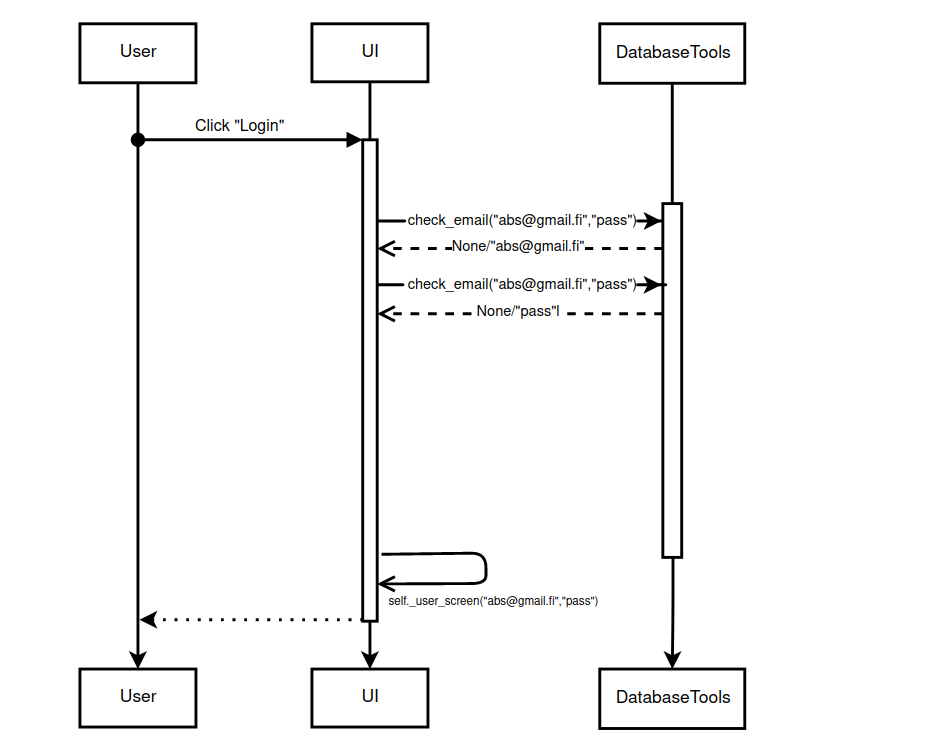
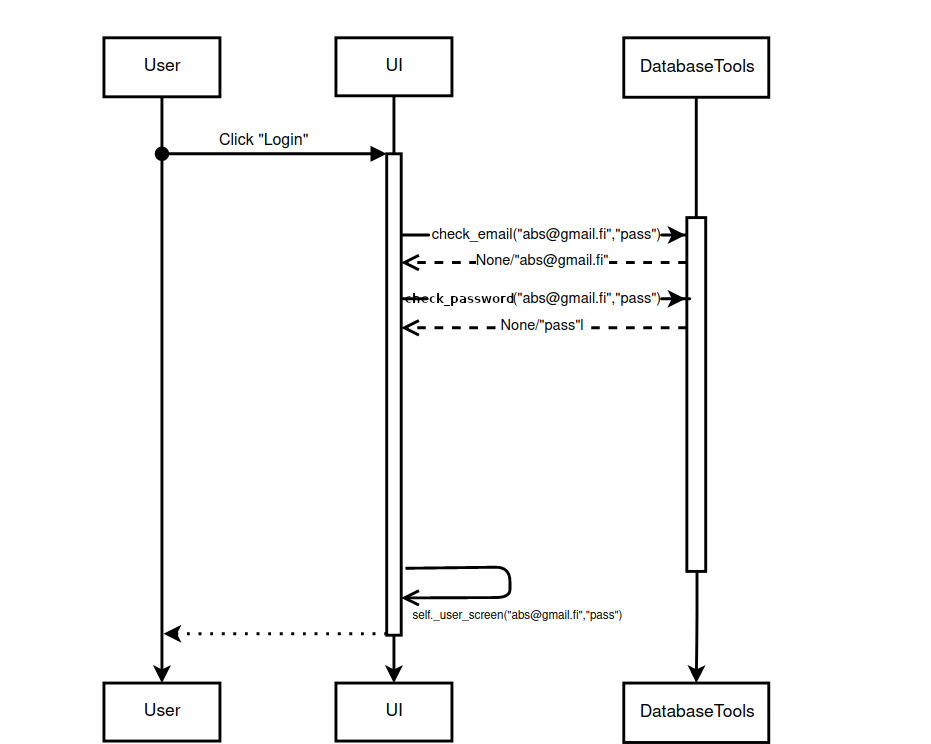
Arkitehtuuri.md päivitetty

Changed region(s): [[0.0623, 0.0309, 0.841, 1.0]]

diff --git a/dokumentaatio/arkkitehtuuri.md b/dokumentaatio/arkkitehtuuri.md
@@ -7,11 +7,15 @@ Ohjelmakoodin pakkausrakenne on seuraavan kaavion mukainen:
 <img src="https://github.com/Neroniuoso/ot-harjoitustyo/blob/master/dokumentaatio/kuvat/Pakkauskaavio.png" width=760>
 
 Sovelluksen rakenne koostuu käyttöliittymäkerroksesta, sovelluslogiikkakerroksesta  ja tallennuslogiikasta vastaavasta kerroksesta.
-ui-hakemistossa on sovelluksen käyttöliittymästä ja services-hakemistossa sovelluslogiikasta vastaava koodi. repositories-hakemisto sisältää tallentamisesta huolehtivaa koodia. Hakemistossa entities sisältää toisaalta luokkia, jotka kuvaavat oikean maailman olioita. Tässä tapauksessa käyttäjä-oliota.
+ui-hakemistossa on sovelluksen käyttöliittymästä ja services-hakemistossa sovelluslogiikasta vastaava koodi. repositories-hakemisto sisältää tallentamisesta huolehtivaa koodia. 
 
 ## Käyttöliittymä
 
-Ei vielä päivitetty
+Käyttöliittymällä on useita erillisiä näkymiä.
+Sovelluksen käynnistäminen johtaa kirjautumisnäkymään. Tästä voidaan kirjautumalla siirtyä käyttäjänäkymään, josta edelleen päästään joko laskuri- tai track-näkymään. Toisaalta painamalla "Create User" siirrytään uuden käyttäjän luomiselle tarkoitettuun näkymään.
+
+Käyttöliittymä on parhaan mukaan eristetty sovelluslogiikasta. Käyttöliittymä kutsuu sekä UserService-, Calculator-luokkien että RecordService- ja DatabaseTools-luokkien metodeja.
+Käyttäjän kirjautumisen yhteydessä tietokannoista haetaan fetch_weight() ja user_intake_load() metodeilla käyttäjän tiedot, jonka perusteella käyttäjänäkymä renderöidään.
 
 ## Sovelluslogiikka
 
@@ -25,14 +29,15 @@ UserService-luokan metodeja ovat esimerkiksi:
 
 UserService on riippuvainen DatabaseTools-luokasta, joka on käyttäjän tietojen tallentamisesta huolehtiva luokka. UserService käsittelee kirjautumiseen, rekisteröitymiseen ja käyttäjän muokkaamiseen liittyviä toiminnallisuuksia. 
 
-EntityService-luokan metodeja ovat esimerkiksi:
-- `_create_user_entity()`
-- `return_user_entity()`
+Intake-luokan metodeja ovat esimerkiksi:
+- `set_protein(protein_gram)`
+- `set_fat(fat_gram)`
+- `get_protein()`
 
 Calculator-luokan metodeja ovat esimerkiksi:
 - `protein_calorie_count(protein_grams)`
 - `carbohydrates_calorie_count(carbohydrates_grams)`
-- `_lean_body_mass_estimate()`
+- `lean_body_mass_estimate()`
 - `bmr_count(lean_body_mass)`
 - `total_daily_energy_expenditure(bmr, activity_level)`
 
@@ -44,7 +49,69 @@ Suhteita kuvaava luokka/pakkauskaavio:
 
 
 ## Tietojen pysyväistallennus
+Pakkauksessa repositories olevat luokat RecordService ja DatabaseTools huolehtivat käyttäjän tietojen tallentamisesta. RecordService tallentaa tietoa records.txt nimiseen CSV-tiedostoon. Vastaavasti DatabaseTools tallentaa tietoa Sqlite3-tietokantaan. 
+
+Sovellus tallentaa records.txt tiedostoon vain käyttäjän päivän aikana syöttämät proteiini-, hiilihydraatti- ja rasvamäärät sekä näiden tietojen seulomiseen käyttäjän sähköposti ja tietojen tallentamisen aika.
+Tallennus CSV-tiedostoon tapahtuu formaatissa:
+...
+account@gmail.com;2021-12-25 17:24:29.484410;12;13;14 
+epkka@hotmail.com;2021-12-25 17:24:29.484410;112;13;4 
+...
+, eli käyttäjän sähköpostiosoitteen, päivämäärän, proteiinimäärän, hiilihydraattimäärän ja rasvamäärän. Kentät erotetaan toisistaan puolipisteellä.
+
+Käyttäjät sekä käyttäjän henkilökohtaiset tiedot, kuten etunimi, sukunimi, syntymäaika, pituus yms, tallennetaan Softfit.db tietokantaan tauluun Users ja käyttäjän painot tauluun Weights.
+Tietokannan alustus tapahtuu user_repository.py-tiedostossa. 
 
 ## Päätoiminnallisuudet
+Kuvataan sovelluksen jotkut toimintalogiikat sekvenssikaavioilla.
 
-<img src="https://github.com/Neroniuoso/ot-harjoitustyo/blob/master/dokumentaatio/kuvat/Sekvenssikaavio.png" width=760>
+### Käyttäjän kirjautuminen
+
+Kun käyttäjä on kirjoittanut sähköpostiosoitteensa ja salasanansa, ja sen jälkeen painannut painiketta "_Login_". Niin kontrolli siirtyy seuraavasti:
+
+<img src="https://github.com/Neroniuoso/ot-harjoitustyo/blob/master/dokumentaatio/kuvat/Login.png" width=760>
+
+kutsuu DatabaseTools metodia check_email ja che
+
+
+### Uuden käyttäjän luominen
+Jos halutaan luoda käyttäjä, niin se tehdään painamalla painiketta "Create User", päästään käyttäjän luomisnäkymään. Kun käyttäjän tiedot on syötetty ja painetaan painiketta "Register", niin kontrolli siirtyy seuraavasti:
+
+<img src="https://github.com/Neroniuoso/ot-harjoitustyo/blob/master/dokumentaatio/kuvat/register.png" width=760>
+
+### Basal metabolic rate -laskeminen
+Calculator-näkymässä valinta vaihtoehtoista riippuen kontrolli siirtyy eri tavalla. Tässä on yksi mahdollisista tapauksista:
+
+<img src="https://github.com/Neroniuoso/ot-harjoitustyo/blob/master/dokumentaatio/kuvat/Calculator.png" width=760>
+
+
+### Salasanan vaihtaminen ja käyttäjän poistaminen
+
+Käyttäjänäkymässä painamalla "Change password" päästään vaihtamaan salasanan vaihtonäkymään. Kun käyttäjä syöttää uudet salasanat ja painaa "Done" kontrolli siirtyy seuraavasti:
+
+<img src="https://github.com/Neroniuoso/ot-harjoitustyo/blob/master/dokumentaatio/kuvat/Change_password.png" width=760>
+
+
+Käyttäjänäkymässä on myös painike käyttäjän poistamiseen "Delete Account", jota painamalla kontrolli siirtyy seuraavasti.
+
+<img src="https://github.com/Neroniuoso/ot-harjoitustyo/blob/master/dokumentaatio/kuvat/delete_account.png" width=760>
+
+### Muut toiminnallisuudet
+
+<img src="https://github.com/Neroniuoso/ot-harjoitustyo/blob/master/dokumentaatio/kuvat/Add_weight.png" width=760>
+
+<img src="https://github.com/Neroniuoso/ot-harjoitustyo/blob/master/dokumentaatio/kuvat/delete_weight.png" width=760>
+
+
+<img src="https://github.com/Neroniuoso/ot-harjoitustyo/blob/master/dokumentaatio/kuvat/mathplotframe.png" width=760>
+
+## OHjelman rakenteeseen jääneet heikoudet
+
+### Sovelluslogiikka
+
+En ole tyytyväinen sovelluksen logiikkaan, sillä monet toiminnallisuuksista tapahtuu suoraan käyttöliittymän ja tietokannan välillä ilman epäsuoraa välittäjää. Onko tämä tarpeeksi turvallinen? 
+
+### Käyttöliittymä
+
+Käyttöliittymässä on minulla jonkin verran toistuvia koodeja, sillä en osannut eristää tkinter-koodeja yleisiksi metodeiksi, joita voisi kutsua tarvittaessa uudelleen käyttöön. En tiedä, onko tämmöinen edes mahdollista.
+
